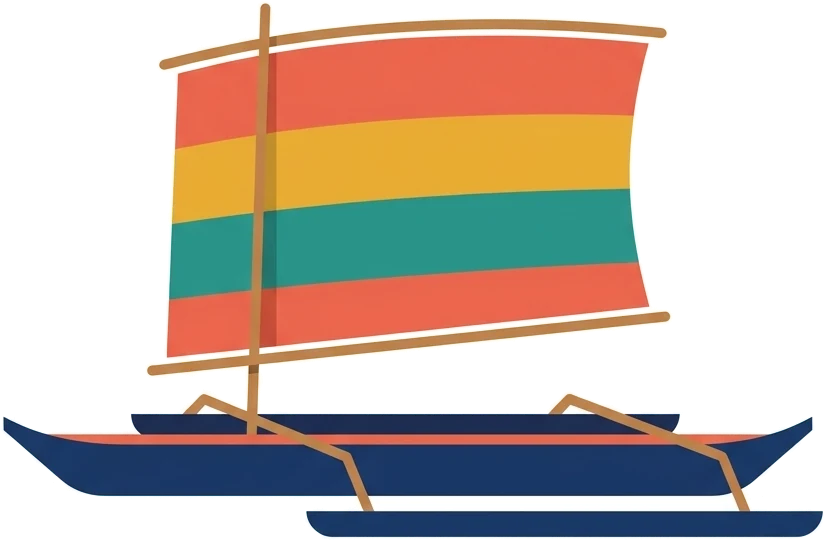
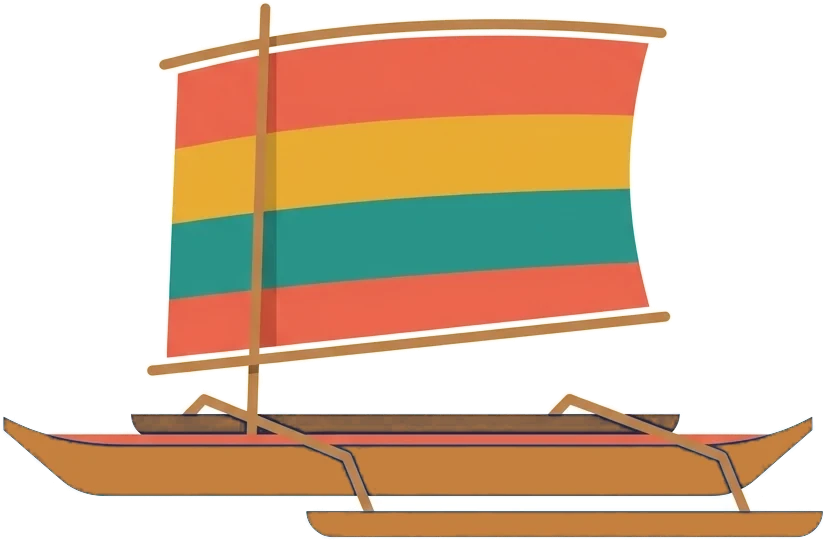
Make the vinta hull wood colored
The navy hull disappeared into the sea, so it is now a warm wood brown that stands out against the water in both light and dark mode.

Changed region(s): [[0.0, 0.7394, 0.9988, 0.9168], [0.3632, 0.9464, 0.9988, 1.0]]

diff --git a/index.html b/index.html
@@ -314,7 +314,7 @@ footer { position: relative; }
 
   <div class="hero-art" aria-hidden="true">
     <div class="sea"></div>
-    <img class="vinta" src="assets/vinta.webp" alt="" width="826" height="541">
+    <img class="vinta" src="assets/vinta.webp?v=2" alt="" width="826" height="541">
     <img class="sun" src="assets/sun.webp" alt="" width="1376" height="768">
     <div class="moon-box"><svg class="moon" viewBox="0 0 200 200"><use href="#moon"/></svg></div>
     <img class="mayon" src="assets/hero.webp" alt="" width="1376" height="768">
@@ -499,7 +499,7 @@ footer { position: relative; }
       <svg class="moon bay-moon" viewBox="0 0 200 200"><use href="#moon"/></svg>
       <img class="bay-sky" src="assets/bay-sky.webp" alt="" loading="lazy" width="1460" height="619">
       <img class="bay-city" src="assets/bay.webp" alt="" loading="lazy" width="1460" height="619">
-      <img class="bay-vinta" src="assets/vinta.webp" alt="" loading="lazy" width="826" height="541">
+      <img class="bay-vinta" src="assets/vinta.webp?v=2" alt="" loading="lazy" width="826" height="541">
     </div>
   </div>
   <div class="foot-sea">
